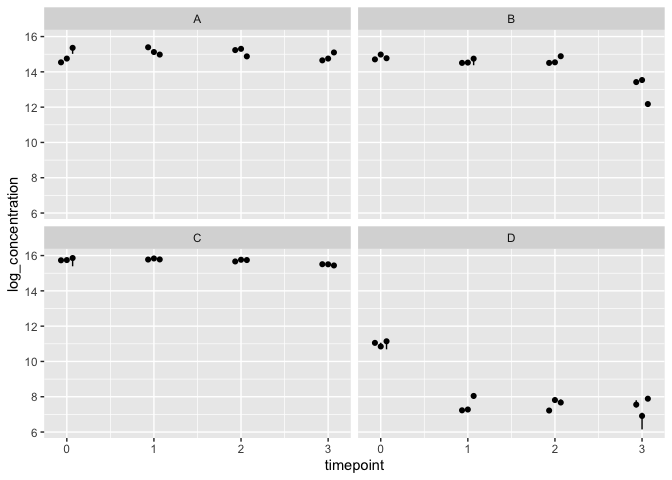
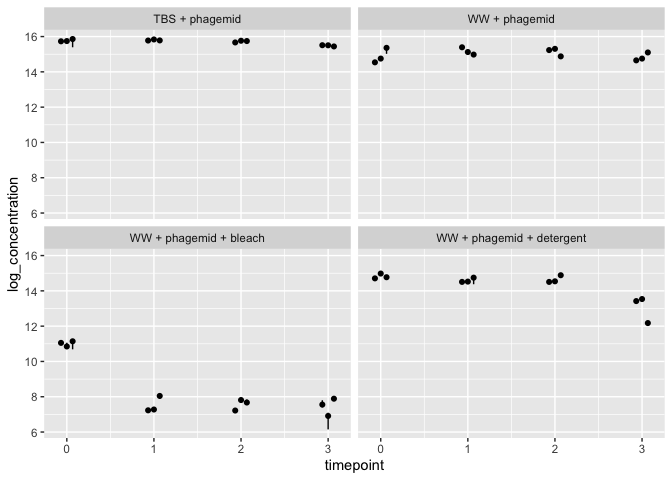
Give treatment groups informative names

diff --git a/qpcr_analysis.md b/qpcr_analysis.md
@@ -166,9 +166,20 @@ We will use regular expressions to match the expected pattern, which is:
 In our input data, the non-template control was named “B1_NTC”, which
 will break our naming scheme. We’ll rename it to “NTC” first.
 
-TODO: Convert the treatment group letters to actual names
+Finally, we’ll rename the single-letter treatment groups with more
+informative names and mark the negative controls so we can separate them
+out later.
 
 ``` r
+coding = list(
+  "A" = "WW + phagemid",
+  "B" = "WW + phagemid + detergent",
+  "C" = "TBS + phagemid",
+  "D" = "WW + phagemid + bleach",
+  "E" = "Just WW"
+)
+controls <-  c("Blank", "NTC", "Just WW")
+
 data_tidy <- data_extracted |> 
   mutate(
     sample_name = str_replace(sample_name, "B1_NTC", "NTC")
@@ -186,25 +197,26 @@ data_tidy <- data_extracted |>
     too_few = "align_start"
   ) |> 
   mutate(
-    treatment_group = as.factor(treatment_group),
+    treatment_group = recode(treatment_group, !!!coding),
+    control = treatment_group %in% controls,
     timepoint = as.integer(timepoint),
     tech_rep = as.factor(tech_rep)
   )
 kable(head(data_tidy, n = 10))
 ```
 
-|       ct | treatment_group | timepoint | tech_rep | well_position | ct_threshold | auto_ct_threshold | target_name    |
-|---------:|:----------------|----------:|:---------|:--------------|-------------:|:------------------|:---------------|
-|       NA | Blank           |        NA | NA       | A1            |          0.2 | FALSE             | Blank          |
-|       NA | Blank           |        NA | NA       | A2            |          0.2 | FALSE             | Blank          |
-|       NA | Blank           |        NA | NA       | A3            |          0.2 | FALSE             | Blank          |
-| 35.92194 | NTC             |        NA | NA       | B1            |          0.2 | FALSE             | Barcode_1\_NTC |
-|       NA | NTC             |        NA | NA       | B2            |          0.2 | FALSE             | Barcode_1\_NTC |
-| 36.77825 | NTC             |        NA | NA       | B3            |          0.2 | FALSE             | Barcode_1\_NTC |
-| 20.32065 | A               |         0 | 1        | C1            |          0.2 | FALSE             | Barcode_1      |
-| 19.76434 | A               |         0 | 2        | C2            |          0.2 | FALSE             | Barcode_1      |
-| 18.81370 | A               |         0 | 3        | C3            |          0.2 | FALSE             | Barcode_1      |
-| 18.81602 | A               |         1 | 1        | C4            |          0.2 | FALSE             | Barcode_1      |
+|       ct | treatment_group | timepoint | tech_rep | well_position | ct_threshold | auto_ct_threshold | target_name    | control |
+|---------:|:----------------|----------:|:---------|:--------------|-------------:|:------------------|:---------------|:--------|
+|       NA | Blank           |        NA | NA       | A1            |          0.2 | FALSE             | Blank          | TRUE    |
+|       NA | Blank           |        NA | NA       | A2            |          0.2 | FALSE             | Blank          | TRUE    |
+|       NA | Blank           |        NA | NA       | A3            |          0.2 | FALSE             | Blank          | TRUE    |
+| 35.92194 | NTC             |        NA | NA       | B1            |          0.2 | FALSE             | Barcode_1\_NTC | TRUE    |
+|       NA | NTC             |        NA | NA       | B2            |          0.2 | FALSE             | Barcode_1\_NTC | TRUE    |
+| 36.77825 | NTC             |        NA | NA       | B3            |          0.2 | FALSE             | Barcode_1\_NTC | TRUE    |
+| 20.32065 | WW + phagemid   |         0 | 1        | C1            |          0.2 | FALSE             | Barcode_1      | FALSE   |
+| 19.76434 | WW + phagemid   |         0 | 2        | C2            |          0.2 | FALSE             | Barcode_1      | FALSE   |
+| 18.81370 | WW + phagemid   |         0 | 3        | C3            |          0.2 | FALSE             | Barcode_1      | FALSE   |
+| 18.81602 | WW + phagemid   |         1 | 1        | C4            |          0.2 | FALSE             | Barcode_1      | FALSE   |
 
 Let’s make sure we have 9 blanks and NTCs (3 per plate) and 36 of the
 other treatments (3 pcr replicates \* 3 technical replicates \* 4
@@ -217,15 +229,15 @@ data_tidy |>
   kable()
 ```
 
-| treatment_group |   n |
-|:----------------|----:|
-| A               |  36 |
-| B               |  36 |
-| Blank           |   9 |
-| C               |  36 |
-| D               |  36 |
-| E               |  36 |
-| NTC             |   9 |
+| treatment_group           |   n |
+|:--------------------------|----:|
+| Blank                     |   9 |
+| Just WW                   |  36 |
+| NTC                       |   9 |
+| TBS + phagemid            |  36 |
+| WW + phagemid             |  36 |
+| WW + phagemid + bleach    |  36 |
+| WW + phagemid + detergent |  36 |
 
 First, let’s take a look at the Blanks and NTCs. These should mostly
 have `NA` for their ct value.
@@ -236,32 +248,32 @@ data_tidy |>
   kable()
 ```
 
-|        ct | treatment_group | timepoint | tech_rep | well_position | ct_threshold | auto_ct_threshold | target_name    |
-|----------:|:----------------|----------:|:---------|:--------------|-------------:|:------------------|:---------------|
-|        NA | Blank           |        NA | NA       | A1            |          0.2 | FALSE             | Blank          |
-|        NA | Blank           |        NA | NA       | A2            |          0.2 | FALSE             | Blank          |
-|        NA | Blank           |        NA | NA       | A3            |          0.2 | FALSE             | Blank          |
-| 35.921940 | NTC             |        NA | NA       | B1            |          0.2 | FALSE             | Barcode_1\_NTC |
-|        NA | NTC             |        NA | NA       | B2            |          0.2 | FALSE             | Barcode_1\_NTC |
-| 36.778248 | NTC             |        NA | NA       | B3            |          0.2 | FALSE             | Barcode_1\_NTC |
-| 33.499622 | Blank           |        NA | NA       | A1            |          0.2 | FALSE             | Blank          |
-|        NA | Blank           |        NA | NA       | A2            |          0.2 | FALSE             | Blank          |
-|  6.357395 | Blank           |        NA | NA       | A3            |          0.2 | FALSE             | Blank          |
-|        NA | NTC             |        NA | NA       | B1            |          0.2 | FALSE             | Barcode_1\_NTC |
-|        NA | NTC             |        NA | NA       | B2            |          0.2 | FALSE             | Barcode_1\_NTC |
-|        NA | NTC             |        NA | NA       | B3            |          0.2 | FALSE             | Barcode_1\_NTC |
-|        NA | Blank           |        NA | NA       | A1            |          0.2 | FALSE             | Blank          |
-|        NA | Blank           |        NA | NA       | A2            |          0.2 | FALSE             | Blank          |
-|        NA | Blank           |        NA | NA       | A3            |          0.2 | FALSE             | Blank          |
-| 39.660065 | NTC             |        NA | NA       | B1            |          0.2 | FALSE             | Barcode_1\_NTC |
-|        NA | NTC             |        NA | NA       | B2            |          0.2 | FALSE             | Barcode_1\_NTC |
-| 37.288032 | NTC             |        NA | NA       | B3            |          0.2 | FALSE             | Barcode_1\_NTC |
+|        ct | treatment_group | timepoint | tech_rep | well_position | ct_threshold | auto_ct_threshold | target_name    | control |
+|----------:|:----------------|----------:|:---------|:--------------|-------------:|:------------------|:---------------|:--------|
+|        NA | Blank           |        NA | NA       | A1            |          0.2 | FALSE             | Blank          | TRUE    |
+|        NA | Blank           |        NA | NA       | A2            |          0.2 | FALSE             | Blank          | TRUE    |
+|        NA | Blank           |        NA | NA       | A3            |          0.2 | FALSE             | Blank          | TRUE    |
+| 35.921940 | NTC             |        NA | NA       | B1            |          0.2 | FALSE             | Barcode_1\_NTC | TRUE    |
+|        NA | NTC             |        NA | NA       | B2            |          0.2 | FALSE             | Barcode_1\_NTC | TRUE    |
+| 36.778248 | NTC             |        NA | NA       | B3            |          0.2 | FALSE             | Barcode_1\_NTC | TRUE    |
+| 33.499622 | Blank           |        NA | NA       | A1            |          0.2 | FALSE             | Blank          | TRUE    |
+|        NA | Blank           |        NA | NA       | A2            |          0.2 | FALSE             | Blank          | TRUE    |
+|  6.357395 | Blank           |        NA | NA       | A3            |          0.2 | FALSE             | Blank          | TRUE    |
+|        NA | NTC             |        NA | NA       | B1            |          0.2 | FALSE             | Barcode_1\_NTC | TRUE    |
+|        NA | NTC             |        NA | NA       | B2            |          0.2 | FALSE             | Barcode_1\_NTC | TRUE    |
+|        NA | NTC             |        NA | NA       | B3            |          0.2 | FALSE             | Barcode_1\_NTC | TRUE    |
+|        NA | Blank           |        NA | NA       | A1            |          0.2 | FALSE             | Blank          | TRUE    |
+|        NA | Blank           |        NA | NA       | A2            |          0.2 | FALSE             | Blank          | TRUE    |
+|        NA | Blank           |        NA | NA       | A3            |          0.2 | FALSE             | Blank          | TRUE    |
+| 39.660065 | NTC             |        NA | NA       | B1            |          0.2 | FALSE             | Barcode_1\_NTC | TRUE    |
+|        NA | NTC             |        NA | NA       | B2            |          0.2 | FALSE             | Barcode_1\_NTC | TRUE    |
+| 37.288032 | NTC             |        NA | NA       | B3            |          0.2 | FALSE             | Barcode_1\_NTC | TRUE    |
 
 We can make a boxplot to compare the distribution of ct across
 treatments. To disply the NAs, we’ll set them to one more than the
-maximum possible values. We see that the Blanks, NTCs, and treatment E
-(which is some sort of negative control?) have CT \> 35, with a few
-outliers. We’ll probably want to check those at some point.
+maximum possible values. We see that the Blanks, NTCs, and Just WW have
+CT \> 35, with a few outliers. We’ll probably want to check those at
+some point.
 
 ``` r
 ct_max <- max(data_tidy$ct, na.rm = TRUE) + 1
@@ -309,9 +321,8 @@ this into one conversion.
 We’re also going to filter out the negative controls from now on.
 
 ``` r
-treatments_to_keep <- c("A", "B", "C", "D")
 data_concentration <- data_tidy |>
-  filter(treatment_group %in% treatments_to_keep) |>
+  filter(!control) |>
   mutate(
     dilution = (ct - std_curve_intercept) / std_curve_slope,
     log_concentration = log(concentration_at_d0) + log(dilution_factor) * dilution,
@@ -319,18 +330,18 @@ data_concentration <- data_tidy |>
 kable(head(data_concentration, n = 10))
 ```
 
-|       ct | treatment_group | timepoint | tech_rep | well_position | ct_threshold | auto_ct_threshold | target_name | dilution | log_concentration |
-|---------:|:----------------|----------:|:---------|:--------------|-------------:|:------------------|:------------|---------:|------------------:|
-| 20.32065 | A               |         0 | 1        | C1            |          0.2 | FALSE             | Barcode_1   | 6.288793 |          14.46750 |
-| 19.76434 | A               |         0 | 2        | C2            |          0.2 | FALSE             | Barcode_1   | 6.439739 |          14.81506 |
-| 18.81370 | A               |         0 | 3        | C3            |          0.2 | FALSE             | Barcode_1   | 6.697681 |          15.40900 |
-| 18.81602 | A               |         1 | 1        | C4            |          0.2 | FALSE             | Barcode_1   | 6.697049 |          15.40754 |
-| 19.44741 | A               |         1 | 2        | C5            |          0.2 | FALSE             | Barcode_1   | 6.525733 |          15.01307 |
-| 19.54228 | A               |         1 | 3        | C6            |          0.2 | FALSE             | Barcode_1   | 6.499993 |          14.95380 |
-| 18.98299 | A               |         2 | 1        | C7            |          0.2 | FALSE             | Barcode_1   | 6.651747 |          15.30323 |
-| 18.98078 | A               |         2 | 2        | C8            |          0.2 | FALSE             | Barcode_1   | 6.652345 |          15.30461 |
-| 19.66541 | A               |         2 | 3        | C9            |          0.2 | FALSE             | Barcode_1   | 6.466582 |          14.87687 |
-| 20.02242 | A               |         3 | 1        | C10           |          0.2 | FALSE             | Barcode_1   | 6.369714 |          14.65382 |
+|       ct | treatment_group | timepoint | tech_rep | well_position | ct_threshold | auto_ct_threshold | target_name | control | dilution | log_concentration |
+|---------:|:----------------|----------:|:---------|:--------------|-------------:|:------------------|:------------|:--------|---------:|------------------:|
+| 20.32065 | WW + phagemid   |         0 | 1        | C1            |          0.2 | FALSE             | Barcode_1   | FALSE   | 6.288793 |          14.46750 |
+| 19.76434 | WW + phagemid   |         0 | 2        | C2            |          0.2 | FALSE             | Barcode_1   | FALSE   | 6.439739 |          14.81506 |
+| 18.81370 | WW + phagemid   |         0 | 3        | C3            |          0.2 | FALSE             | Barcode_1   | FALSE   | 6.697681 |          15.40900 |
+| 18.81602 | WW + phagemid   |         1 | 1        | C4            |          0.2 | FALSE             | Barcode_1   | FALSE   | 6.697049 |          15.40754 |
+| 19.44741 | WW + phagemid   |         1 | 2        | C5            |          0.2 | FALSE             | Barcode_1   | FALSE   | 6.525733 |          15.01307 |
+| 19.54228 | WW + phagemid   |         1 | 3        | C6            |          0.2 | FALSE             | Barcode_1   | FALSE   | 6.499993 |          14.95380 |
+| 18.98299 | WW + phagemid   |         2 | 1        | C7            |          0.2 | FALSE             | Barcode_1   | FALSE   | 6.651747 |          15.30323 |
+| 18.98078 | WW + phagemid   |         2 | 2        | C8            |          0.2 | FALSE             | Barcode_1   | FALSE   | 6.652345 |          15.30461 |
+| 19.66541 | WW + phagemid   |         2 | 3        | C9            |          0.2 | FALSE             | Barcode_1   | FALSE   | 6.466582 |          14.87687 |
+| 20.02242 | WW + phagemid   |         3 | 1        | C10           |          0.2 | FALSE             | Barcode_1   | FALSE   | 6.369714 |          14.65382 |
 
 Since we have three PCR replicates per technical replicate, we can
 summarize our data with min, median, and max without any loss of
@@ -348,56 +359,56 @@ data_concentration |>
   kable()
 ```
 
-| treatment_group | timepoint | tech_rep |  conc_min |  conc_med |  conc_max |
-|:----------------|----------:|:---------|----------:|----------:|----------:|
-| A               |         0 | 1        | 14.467498 | 14.539121 | 14.559697 |
-| A               |         0 | 2        | 14.704875 | 14.752250 | 14.815063 |
-| A               |         0 | 3        | 15.020836 | 15.360500 | 15.408997 |
-| A               |         1 | 1        | 15.315593 | 15.392311 | 15.407542 |
-| A               |         1 | 2        | 15.013071 | 15.123416 | 15.193376 |
-| A               |         1 | 3        | 14.953803 | 14.979106 | 15.100242 |
-| A               |         2 | 1        | 15.222434 | 15.233419 | 15.303230 |
-| A               |         2 | 2        | 15.183994 | 15.304607 | 15.330360 |
-| A               |         2 | 3        | 14.873419 | 14.876872 | 14.948056 |
-| A               |         3 | 1        | 14.631852 | 14.651272 | 14.653825 |
-| A               |         3 | 2        | 14.742572 | 14.751832 | 14.800324 |
-| A               |         3 | 3        | 15.042985 | 15.098861 | 15.100316 |
-| B               |         0 | 1        | 14.691215 | 14.707181 | 14.723714 |
-| B               |         0 | 2        | 14.937496 | 14.981082 | 14.986873 |
-| B               |         0 | 3        | 14.630075 | 14.772313 | 14.884848 |
-| B               |         1 | 1        | 14.460672 | 14.507884 | 14.530743 |
-| B               |         1 | 2        | 14.431200 | 14.524827 | 14.569874 |
-| B               |         1 | 3        | 14.375207 | 14.747474 | 14.834689 |
-| B               |         2 | 1        | 14.445850 | 14.506649 | 14.514520 |
-| B               |         2 | 2        | 14.399098 | 14.540501 | 14.597506 |
-| B               |         2 | 3        | 14.829546 | 14.885799 | 14.944224 |
-| B               |         3 | 1        | 13.393890 | 13.420946 | 13.479134 |
-| B               |         3 | 2        | 13.508365 | 13.536396 | 13.662985 |
-| B               |         3 | 3        | 12.045272 | 12.175395 | 12.181063 |
-| C               |         0 | 1        | 15.585203 | 15.730980 | 15.774331 |
-| C               |         0 | 2        | 15.640385 | 15.744967 | 15.827471 |
-| C               |         0 | 3        | 15.392854 | 15.860508 | 15.891046 |
-| C               |         1 | 1        | 15.766611 | 15.774405 | 15.815867 |
-| C               |         1 | 2        | 15.799626 | 15.835428 | 15.892060 |
-| C               |         1 | 3        | 15.766942 | 15.780796 | 15.817647 |
-| C               |         2 | 1        | 15.630437 | 15.666167 | 15.683122 |
-| C               |         2 | 2        | 15.748995 | 15.762468 | 15.825183 |
-| C               |         2 | 3        | 15.745316 | 15.745680 | 15.763973 |
-| C               |         3 | 1        | 15.471512 | 15.509831 | 15.526576 |
-| C               |         3 | 2        | 15.490110 | 15.504371 | 15.567375 |
-| C               |         3 | 3        | 15.388014 | 15.439595 | 15.448920 |
-| D               |         0 | 1        | 11.023879 | 11.052359 | 11.103619 |
-| D               |         0 | 2        | 10.819916 | 10.849192 | 11.061266 |
-| D               |         0 | 3        | 10.687431 | 11.142662 | 11.213070 |
-| D               |         1 | 1        |  7.185397 |  7.231021 |  7.245195 |
-| D               |         1 | 2        |  7.247885 |  7.276237 |  7.328588 |
-| D               |         1 | 3        |  7.880027 |  8.045826 |  8.107687 |
-| D               |         2 | 1        |  7.131532 |  7.219262 |  7.287010 |
-| D               |         2 | 2        |  7.770489 |  7.813055 |  7.832202 |
-| D               |         2 | 3        |  7.650187 |  7.672781 |  7.842286 |
-| D               |         3 | 1        |  7.398282 |  7.554920 |  7.801422 |
-| D               |         3 | 2        |  6.148432 |  6.912249 |  7.093166 |
-| D               |         3 | 3        |  7.767307 |  7.889023 |  7.912897 |
+| treatment_group           | timepoint | tech_rep |  conc_min |  conc_med |  conc_max |
+|:--------------------------|----------:|:---------|----------:|----------:|----------:|
+| TBS + phagemid            |         0 | 1        | 15.585203 | 15.730980 | 15.774331 |
+| TBS + phagemid            |         0 | 2        | 15.640385 | 15.744967 | 15.827471 |
+| TBS + phagemid            |         0 | 3        | 15.392854 | 15.860508 | 15.891046 |
+| TBS + phagemid            |         1 | 1        | 15.766611 | 15.774405 | 15.815867 |
+| TBS + phagemid            |         1 | 2        | 15.799626 | 15.835428 | 15.892060 |
+| TBS + phagemid            |         1 | 3        | 15.766942 | 15.780796 | 15.817647 |
+| TBS + phagemid            |         2 | 1        | 15.630437 | 15.666167 | 15.683122 |
+| TBS + phagemid            |         2 | 2        | 15.748995 | 15.762468 | 15.825183 |
+| TBS + phagemid            |         2 | 3        | 15.745316 | 15.745680 | 15.763973 |
+| TBS + phagemid            |         3 | 1        | 15.471512 | 15.509831 | 15.526576 |
+| TBS + phagemid            |         3 | 2        | 15.490110 | 15.504371 | 15.567375 |
+| TBS + phagemid            |         3 | 3        | 15.388014 | 15.439595 | 15.448920 |
+| WW + phagemid             |         0 | 1        | 14.467498 | 14.539121 | 14.559697 |
+| WW + phagemid             |         0 | 2        | 14.704875 | 14.752250 | 14.815063 |
+| WW + phagemid             |         0 | 3        | 15.020836 | 15.360500 | 15.408997 |
+| WW + phagemid             |         1 | 1        | 15.315593 | 15.392311 | 15.407542 |
+| WW + phagemid             |         1 | 2        | 15.013071 | 15.123416 | 15.193376 |
+| WW + phagemid             |         1 | 3        | 14.953803 | 14.979106 | 15.100242 |
+| WW + phagemid             |         2 | 1        | 15.222434 | 15.233419 | 15.303230 |
+| WW + phagemid             |         2 | 2        | 15.183994 | 15.304607 | 15.330360 |
+| WW + phagemid             |         2 | 3        | 14.873419 | 14.876872 | 14.948056 |
+| WW + phagemid             |         3 | 1        | 14.631852 | 14.651272 | 14.653825 |
+| WW + phagemid             |         3 | 2        | 14.742572 | 14.751832 | 14.800324 |
+| WW + phagemid             |         3 | 3        | 15.042985 | 15.098861 | 15.100316 |
+| WW + phagemid + bleach    |         0 | 1        | 11.023879 | 11.052359 | 11.103619 |
+| WW + phagemid + bleach    |         0 | 2        | 10.819916 | 10.849192 | 11.061266 |
+| WW + phagemid + bleach    |         0 | 3        | 10.687431 | 11.142662 | 11.213070 |
+| WW + phagemid + bleach    |         1 | 1        |  7.185397 |  7.231021 |  7.245195 |
+| WW + phagemid + bleach    |         1 | 2        |  7.247885 |  7.276237 |  7.328588 |
+| WW + phagemid + bleach    |         1 | 3        |  7.880027 |  8.045826 |  8.107687 |
+| WW + phagemid + bleach    |         2 | 1        |  7.131532 |  7.219262 |  7.287010 |
+| WW + phagemid + bleach    |         2 | 2        |  7.770489 |  7.813055 |  7.832202 |
+| WW + phagemid + bleach    |         2 | 3        |  7.650187 |  7.672781 |  7.842286 |
+| WW + phagemid + bleach    |         3 | 1        |  7.398282 |  7.554920 |  7.801422 |
+| WW + phagemid + bleach    |         3 | 2        |  6.148432 |  6.912249 |  7.093166 |
+| WW + phagemid + bleach    |         3 | 3        |  7.767307 |  7.889023 |  7.912897 |
+| WW + phagemid + detergent |         0 | 1        | 14.691215 | 14.707181 | 14.723714 |
+| WW + phagemid + detergent |         0 | 2        | 14.937496 | 14.981082 | 14.986873 |
+| WW + phagemid + detergent |         0 | 3        | 14.630075 | 14.772313 | 14.884848 |
+| WW + phagemid + detergent |         1 | 1        | 14.460672 | 14.507884 | 14.530743 |
+| WW + phagemid + detergent |         1 | 2        | 14.431200 | 14.524827 | 14.569874 |
+| WW + phagemid + detergent |         1 | 3        | 14.375207 | 14.747474 | 14.834689 |
+| WW + phagemid + detergent |         2 | 1        | 14.445850 | 14.506649 | 14.514520 |
+| WW + phagemid + detergent |         2 | 2        | 14.399098 | 14.540501 | 14.597506 |
+| WW + phagemid + detergent |         2 | 3        | 14.829546 | 14.885799 | 14.944224 |
+| WW + phagemid + detergent |         3 | 1        | 13.393890 | 13.420946 | 13.479134 |
+| WW + phagemid + detergent |         3 | 2        | 13.508365 | 13.536396 | 13.662985 |
+| WW + phagemid + detergent |         3 | 3        | 12.045272 | 12.175395 | 12.181063 |
 
 # Plot log concentrations vs time for each condition
 
@@ -504,6 +515,7 @@ data_concentration |>
 ![](qpcr_analysis_files/figure-gfm/unnamed-chunk-17-1.png)<!-- -->
 
 ``` r
+treatments_to_keep <- unique(data_concentration$treatment_group) 
 models <- treatments_to_keep |> 
   map(~ filter(data_concentration, treatment_group == .)) |>
   map(~ lm(log_concentration ~ timepoint, .)) |>
@@ -516,16 +528,16 @@ models <- treatments_to_keep |>
 kable(models)
 ```
 
-| treatment_group | collapsed | term        |   estimate | std.error |   statistic |   p.value |
-|:----------------|:----------|:------------|-----------:|----------:|------------:|----------:|
-| A               | FALSE     | (Intercept) | 15.0071602 | 0.0783592 | 191.5175973 | 0.0000000 |
-| A               | FALSE     | timepoint   | -0.0074119 | 0.0418847 |  -0.1769585 | 0.8605909 |
-| B               | FALSE     | (Intercept) | 15.0443407 | 0.1526598 |  98.5481520 | 0.0000000 |
-| B               | FALSE     | timepoint   | -0.5228103 | 0.0816001 |  -6.4069822 | 0.0000003 |
-| C               | FALSE     | (Intercept) | 15.8001163 | 0.0342951 | 460.7106971 | 0.0000000 |
-| C               | FALSE     | timepoint   | -0.0775818 | 0.0183315 |  -4.2321566 | 0.0001657 |
-| D               | FALSE     | (Intercept) |  9.9792068 | 0.2863794 |  34.8461059 | 0.0000000 |
-| D               | FALSE     | timepoint   | -1.0750682 | 0.1530762 |  -7.0230909 | 0.0000000 |
+| treatment_group           | collapsed | term        |   estimate | std.error |   statistic |   p.value |
+|:--------------------------|:----------|:------------|-----------:|----------:|------------:|----------:|
+| WW + phagemid             | FALSE     | (Intercept) | 15.0071602 | 0.0783592 | 191.5175973 | 0.0000000 |
+| WW + phagemid             | FALSE     | timepoint   | -0.0074119 | 0.0418847 |  -0.1769585 | 0.8605909 |
+| WW + phagemid + detergent | FALSE     | (Intercept) | 15.0443407 | 0.1526598 |  98.5481520 | 0.0000000 |
+| WW + phagemid + detergent | FALSE     | timepoint   | -0.5228103 | 0.0816001 |  -6.4069822 | 0.0000003 |
+| WW + phagemid + bleach    | FALSE     | (Intercept) |  9.9792068 | 0.2863794 |  34.8461059 | 0.0000000 |
+| WW + phagemid + bleach    | FALSE     | timepoint   | -1.0750682 | 0.1530762 |  -7.0230909 | 0.0000000 |
+| TBS + phagemid            | FALSE     | (Intercept) | 15.8001163 | 0.0342951 | 460.7106971 | 0.0000000 |
+| TBS + phagemid            | FALSE     | timepoint   | -0.0775818 | 0.0183315 |  -4.2321566 | 0.0001657 |
 
 ## Collapsing qPCR replicates
 
@@ -573,16 +585,16 @@ models_collapsed <- treatments_to_keep |>
 kable(models_collapsed)
 ```
 
-| treatment_group | collapsed | term        |   estimate | std.error |   statistic |   p.value |
-|:----------------|:----------|:------------|-----------:|----------:|------------:|----------:|
-| A               | TRUE      | (Intercept) | 15.0071602 | 0.1858890 |  80.7318212 | 0.0001534 |
-| A               | TRUE      | timepoint   | -0.0074119 | 0.0993619 |  -0.0745946 | 0.9473269 |
-| B               | TRUE      | (Intercept) | 15.0443407 | 0.4725921 |  31.8336698 | 0.0009853 |
-| B               | TRUE      | timepoint   | -0.5228103 | 0.2526111 |  -2.0696254 | 0.1743497 |
-| C               | TRUE      | (Intercept) | 15.8001163 | 0.0994830 | 158.8222377 | 0.0000396 |
-| C               | TRUE      | timepoint   | -0.0775818 | 0.0531759 |  -1.4589646 | 0.2819668 |
-| D               | TRUE      | (Intercept) |  9.9792068 | 1.0988973 |   9.0811095 | 0.0119099 |
-| D               | TRUE      | timepoint   | -1.0750682 | 0.5873853 |  -1.8302607 | 0.2086985 |
+| treatment_group           | collapsed | term        |   estimate | std.error |   statistic |   p.value |
+|:--------------------------|:----------|:------------|-----------:|----------:|------------:|----------:|
+| WW + phagemid             | TRUE      | (Intercept) | 15.0071602 | 0.1858890 |  80.7318212 | 0.0001534 |
+| WW + phagemid             | TRUE      | timepoint   | -0.0074119 | 0.0993619 |  -0.0745946 | 0.9473269 |
+| WW + phagemid + detergent | TRUE      | (Intercept) | 15.0443407 | 0.4725921 |  31.8336698 | 0.0009853 |
+| WW + phagemid + detergent | TRUE      | timepoint   | -0.5228103 | 0.2526111 |  -2.0696254 | 0.1743497 |
+| WW + phagemid + bleach    | TRUE      | (Intercept) |  9.9792068 | 1.0988973 |   9.0811095 | 0.0119099 |
+| WW + phagemid + bleach    | TRUE      | timepoint   | -1.0750682 | 0.5873853 |  -1.8302607 | 0.2086985 |
+| TBS + phagemid            | TRUE      | (Intercept) | 15.8001163 | 0.0994830 | 158.8222377 | 0.0000396 |
+| TBS + phagemid            | TRUE      | timepoint   | -0.0775818 | 0.0531759 |  -1.4589646 | 0.2819668 |
 
 Collapsing the qPCR replicates increases the standard error of the
 regression coefficients:
